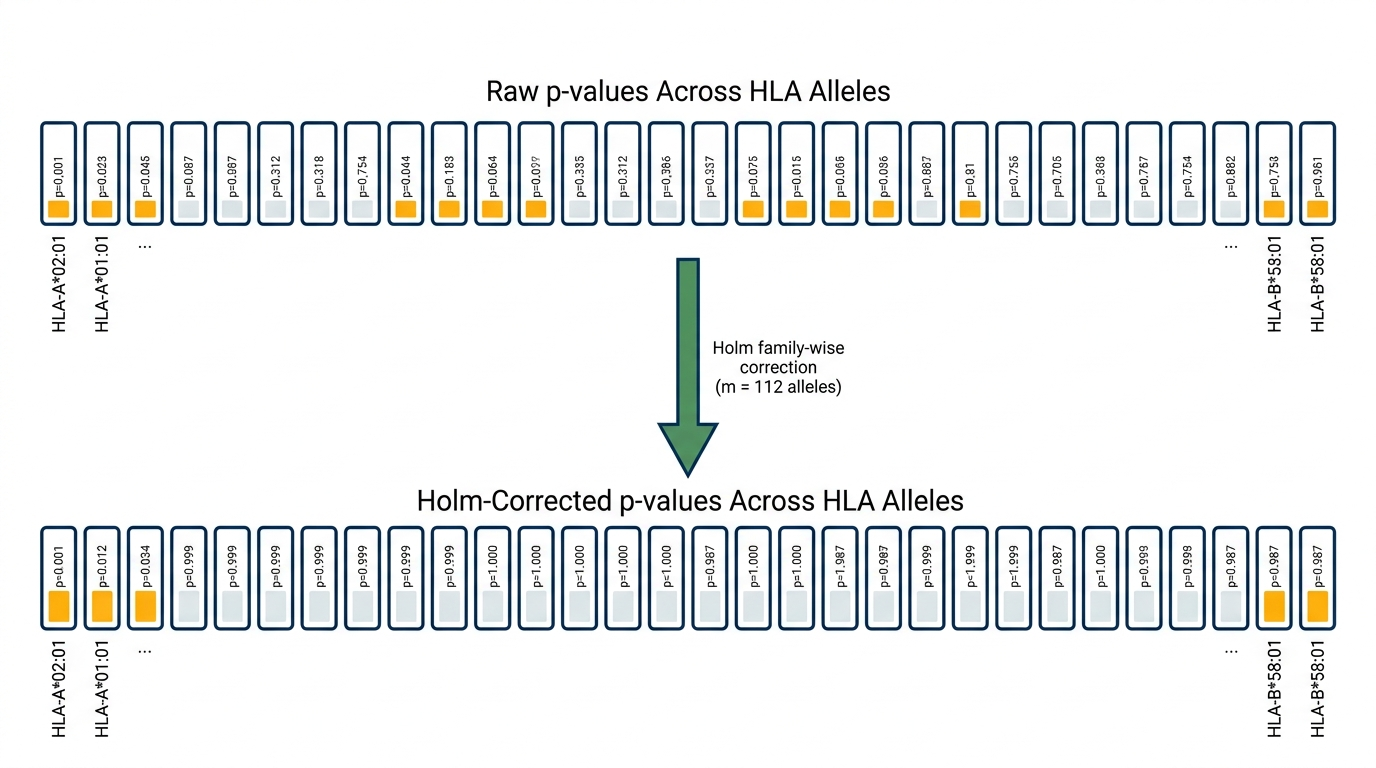
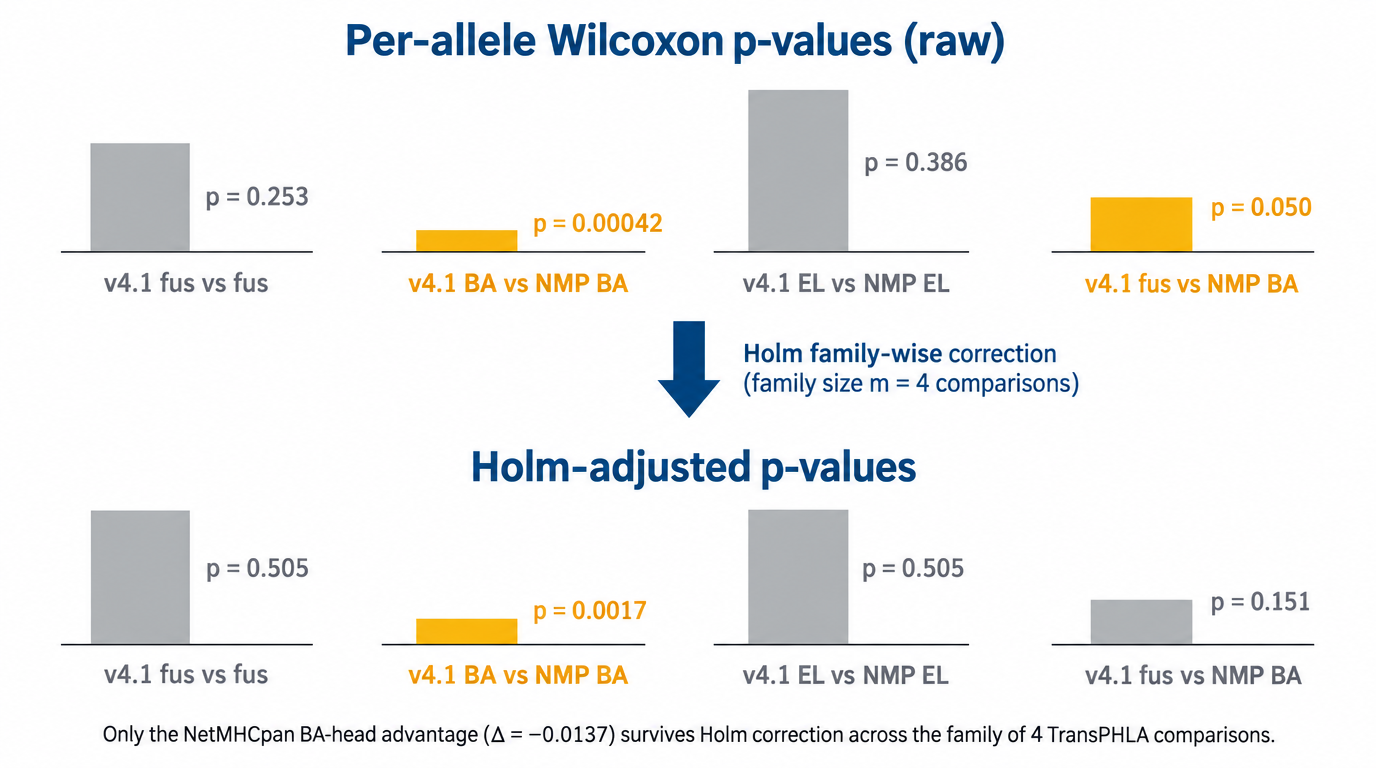
talks_2026-10-13: mirror fl05 + fl06 regeneration + script fixes
Mirror of deepneo_cl@a16c3cde0. Fixes a Holm-family conflation in the talk-pack derivatives (fl05 image + 4 script files). The paper itself is correct; only the derivative talk materials needed fixing.

- fl05_multiplicity_holm.png regenerated: 4-comparison family (matches paper's methodology) instead of 112-allele version, with real paper numbers from table2_holm_adjusted.json, all Holm p-values bounded by 1 as the math requires
- fl06_transductive_collapse.png regenerated: right-panel x-axis label fixed ("same rescorer, inductive on held-out alleles" instead of the misleading "5-fold CV")
- FIGURELAB_PROMPTS.md fl05 brief rewritten with correct composition + math constraint block
- TRAILER_SCRIPT.md, TRAILER_SCRIPT_EXTENDED.md, DECK_OUTLINE.md narration/headlines updated to describe Holm across 4 comparisons, not 112 alleles

Changed region(s): [[0.0312, 0.0312, 0.9688, 0.9688]]

diff --git a/mdpi_submission/talks_2026-10-13/FIGURELAB_PROMPTS.md b/mdpi_submission/talks_2026-10-13/FIGURELAB_PROMPTS.md
@@ -55,15 +55,33 @@ Each prompt begins with a **filename** header. Save the FigureLab download under
 
 ---
 
-## `fl05_multiplicity_holm.png` — Per-allele multiplicity and Holm adjustment
+## `fl05_multiplicity_holm.png` — Holm family-wise correction across the 4 Table 2 comparisons
 
 **Where it's used**: Deck slide 7 ("Problem 2: multiple testing"); Trailer beat 0:48–1:00.
 
+**IMPORTANT (corrected 2026-10-14)**: The paper's Holm family is **4** (the four TransPHLA Table 2 comparisons), **not 112 alleles**. The 112-ish alleles are the sample for the per-allele Wilcoxon test *within* each row; that test rolls up to one p-value per row, and Holm acts on the four resulting p-values. An earlier version of this prompt incorrectly specified Holm across 112 alleles and produced an image with p-values > 1.0 (mathematically impossible — Holm's formula clips at 1).
+
 **Prompt**:
 
-> A horizontal row of 112 small rectangles across the full width of a 16:9 white canvas, each rectangle representing one HLA allele (label the first and last few with real names: "HLA-A*02:01", "HLA-A*01:01", "…", "HLA-B*58:01"). Each rectangle shows a tiny internal bar labelled with a p-value in small text; those below α = 0.05 are coloured amber ("raw p < 0.05") and those above are grey. Count: ~20 of 112 rectangles are amber. Below this row, a second horizontal row of the same 112 rectangles but after **Holm adjustment** — most of the previously-amber rectangles are now grey (p × m no longer survives), only ~3 remain amber. A vertical arrow between the two rows labelled "Holm family-wise correction (m = 112 alleles)". Minimalist editorial style, navy outlines, clean typography. No stock graphs.
+> A 16:9 white editorial-illustration canvas showing exactly **four** horizontal comparison bars arranged in two stacked rows (not 112). The four bars represent the paper's four TransPHLA Table 2 comparisons:
+>
+> ① "v4.1 fus vs fus" · ② "v4.1 BA vs NMP BA" · ③ "v4.1 EL vs NMP EL" · ④ "v4.1 deployed fus vs NMP BA"
+>
+> **Top row header**: "Per-allele Wilcoxon p-values (raw)" — bars labelled with:
+> ① p = 0.253 (grey) · ② p = 0.00042 (amber) · ③ p = 0.386 (grey) · ④ p = 0.050 (amber, borderline)
+>
+> **Between the rows**: a downward sage/navy arrow labelled "Holm family-wise correction (family size m = 4 comparisons)".
+>
+> **Bottom row header**: "Holm-adjusted p-values" — bars labelled with:
+> ① p = 0.505 (grey) · ② p = 0.0017 (amber) · ③ p = 0.505 (grey) · ④ p = 0.151 (grey)
+>
+> Takeaway caption at the bottom in small text: "Only the NetMHCpan BA-head advantage (Δ = −0.0137) survives Holm correction across the family of 4 TransPHLA comparisons."
+>
+> **CRITICAL math constraint**: Holm's formula is `min(p × k, 1)`. Every Holm-adjusted p-value MUST be ≤ 1.000. Never show p > 1. All four Holm values above are already correct and bounded.
+>
+> Clean editorial scientific-illustration style, navy outlines, amber fill for significant bars, grey fill for non-significant, pure white background. No stock graphs, no Excel UI, no bell curves. Do NOT show per-allele breakdown (do not show 112 or 84 alleles — that structure rolls up into each row's Wilcoxon p via rank test, which happens upstream and is not depicted here).
 
-**Negative tokens**: Excel UI, generic statistics stock images, bell curves.
+**Negative tokens**: Excel UI, generic statistics stock images, bell curves, 112 bars, per-allele chips, p-values greater than 1.
 
 ---
 

diff --git a/mdpi_submission/talks_2026-10-13/DECK_OUTLINE.md b/mdpi_submission/talks_2026-10-13/DECK_OUTLINE.md
@@ -80,14 +80,14 @@
 | Speaker note | *"Here's the first trap. Public benchmarks accumulate over years. When a new model trains on all of them and is then evaluated on 'the next' public benchmark, the overlap is enormous. Our exact-pair decontamination removes 26.9% of the holdout. We only report numbers on the clean subset."* |
 | Timing | 3:30 – 4:30 |
 
-### Slide 7 · Problem 2 — multiplicity across 112 alleles
+### Slide 7 · Problem 2 — multiplicity across the comparison family
 
 | Field | Content |
 |---|---|
-| Headline | **One win in 112 comparisons is not a win** |
+| Headline | **Four head-to-head tests → Holm across the family of 4** |
 | Visual | 🧬 `fl05_multiplicity_holm.png` |
-| Bullet | · Per-allele Wilcoxon tests (m = 112)<br>· Holm family-wise correction<br>· Allele-clustered bootstrap CI on paired Δ |
-| Speaker note | *"The second trap. The benchmark has 112 alleles. If you report that your model beats the baseline on 20 of them without correcting for multiplicity, random noise alone generates about 6 'wins' at α = 0.05. We predeclare a three-condition rule: DeLong plus Holm-adjusted per-allele Wilcoxon plus a bootstrap CI that excludes zero."* |
+| Bullet | · Per-allele Wilcoxon within each row (84 alleles → 1 p-value)<br>· Holm family-wise correction across the **4 Table 2 comparisons** (m = 4)<br>· Allele-clustered bootstrap CI on paired Δ |
+| Speaker note | *"The second trap. Our Table 2 reports four comparisons: BA head, EL head, deployed fusion, and a control. Within each row, we run a per-allele Wilcoxon signed-rank test over 84 alleles to get one p-value per row. Those four p-values then get Holm-corrected. Why four and not 112? Because the comparisons are the inferential family — the 112 alleles are the sample for the within-row Wilcoxon. Under this contract only the NetMHCpan BA-head Δ = −0.0137 (Holm p = 0.0017) survives; the pooled fusion win (raw p = 0.05) drops to Holm p = 0.15 and does not."* |
 | Timing | 4:30 – 5:30 |
 
 ### Slide 8 · The three-condition rule

diff --git a/mdpi_submission/talks_2026-10-13/TRAILER_SCRIPT_EXTENDED.md b/mdpi_submission/talks_2026-10-13/TRAILER_SCRIPT_EXTENDED.md
@@ -75,13 +75,13 @@ Stage ④ highlighted in amber with a subtle "you are here" caret.
 
 ---
 
-## 1:30 – 1:45 · Problem 2 — multiplicity across 112 alleles
+## 1:30 – 1:45 · Problem 2 — multiplicity across the comparison family
 
 **Visual**: 🧬 `fl05_multiplicity_holm.png`.
 
-**Narration** (~45 words):
+**Narration** (~55 words):
 
-> The second catch. The benchmark covers 112 HLA alleles. Report one pooled "win" without correcting for the 112 comparisons and random noise alone will manufacture about six wins at α = 0.05. We predeclare Holm-adjusted per-allele Wilcoxon tests, with allele-clustered bootstrap confidence intervals.
+> The second catch. The benchmark gives us four head-to-head tests between DeepNeo-CL and NetMHCpan-4.1 — BA head, EL head, deployed fusion, and a control. If you report whichever one looks like a win without correcting across the family of four, random noise alone can manufacture a false positive. We predeclare per-allele Wilcoxon tests, Holm-adjusted across the four, with allele-clustered bootstrap confidence intervals.
 
 ---
 

diff --git a/mdpi_submission/talks_2026-10-13/TRAILER_SCRIPT.md b/mdpi_submission/talks_2026-10-13/TRAILER_SCRIPT.md
@@ -50,11 +50,11 @@ Target: short promo for the MDPI *Information* submission. Lives on YouTube Shor
 
 ## 0:48 – 1:00 · Problem 2 — multiplicity
 
-**Visual**: `fl05_multiplicity_holm.png` (112 alleles pre/post Holm).
+**Visual**: `fl05_multiplicity_holm.png` (4 TransPHLA comparisons pre/post Holm).
 
 **Narration**:
 
-> There's a second trap. The benchmark covers 112 HLA alleles. If you report one "win" without correcting for the 112 comparisons, random noise can look like a win. We predeclared **Holm-adjusted per-allele Wilcoxon tests**, with allele-clustered bootstrap confidence intervals.
+> There's a second trap. On this benchmark we run four head-to-head tests between DeepNeo-CL and NetMHCpan-4.1 — BA head, EL head, deployed fusion, and a secondary control. If you report whichever one looks like a win without correcting across the family, you've cherry-picked. We predeclare **per-allele Wilcoxon tests, Holm-adjusted across all four comparisons**, with allele-clustered bootstrap confidence intervals.
 
 ---
 
